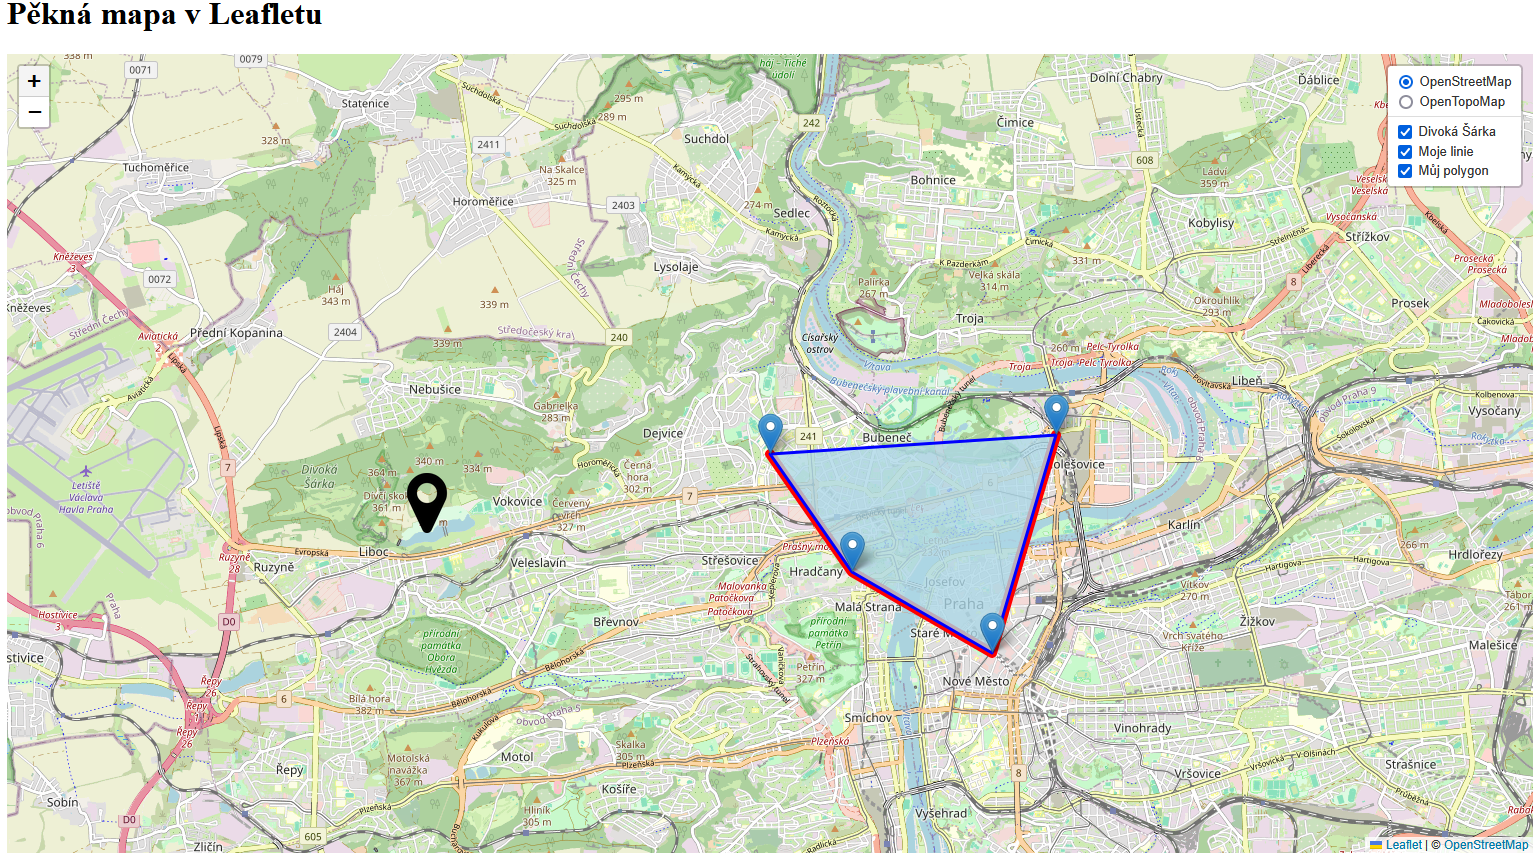
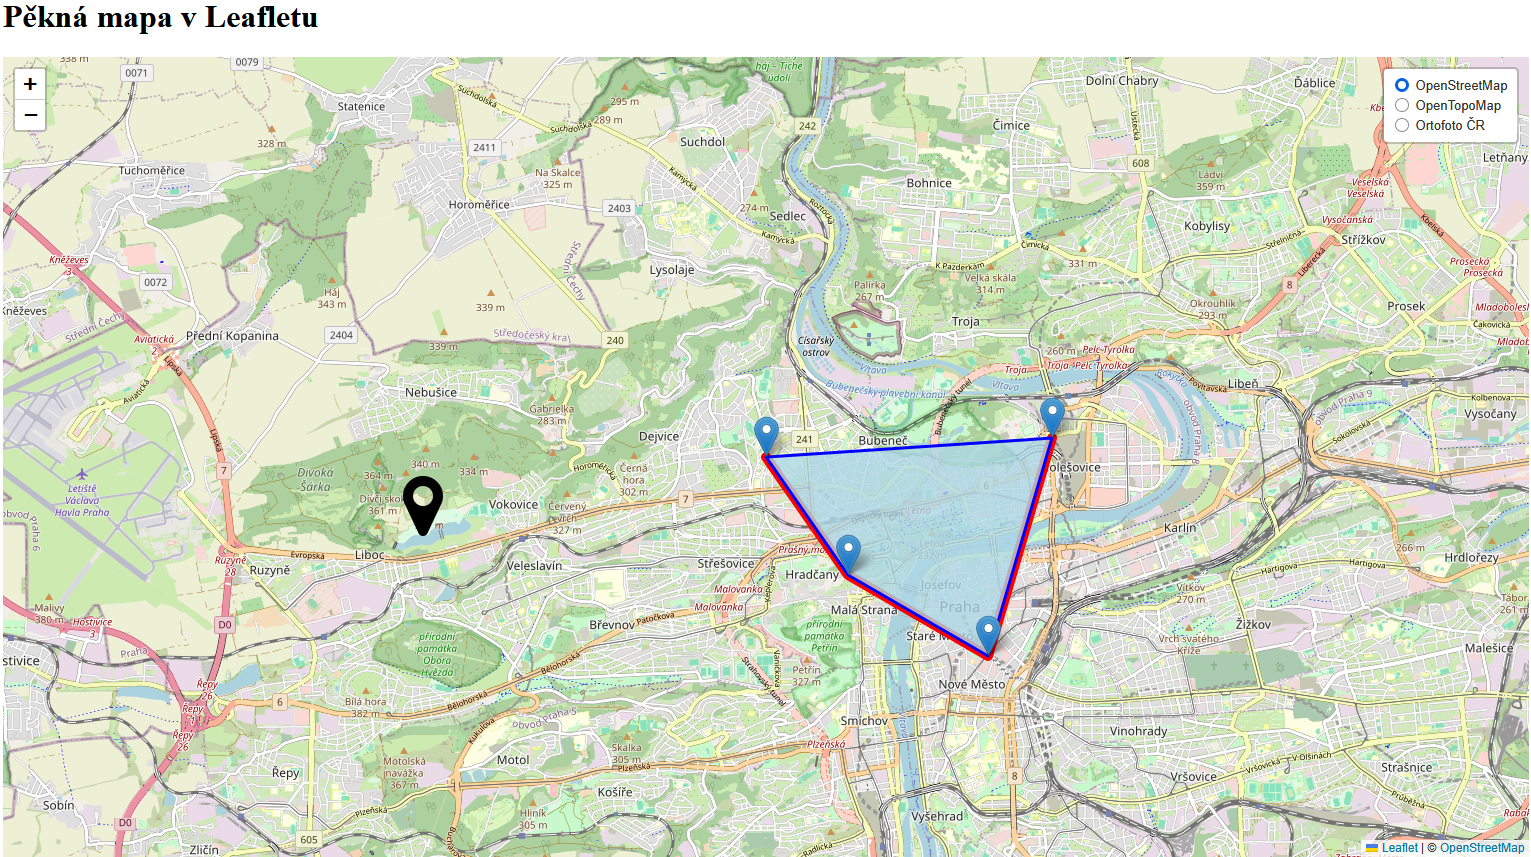
cv3 pridani wms

diff --git a/docs/cviceni/cviceni3.md b/docs/cviceni/cviceni3.md
@@ -620,6 +620,32 @@ Následně je potřeba upravit definici původní OpenStreetMap na začátku skr
     }).addTo(map);
     ```
 
+Jako třetí podkladovou vrstvu přidáme [Ortofoto ČR z ČÚZK](https://geoportal.cuzk.cz/(S(qc0rzifrjshkbyytskpzdilh))/Default.aspx?menu=3121&mode=TextMeta&side=wms.verejne&metadataID=CZ-CUZK-WMS-ORTOFOTO-P&metadataXSL=metadata.sluzba). Tato vrsta je dostupná jako [WMS](https://leafletjs.com/examples/wms/wms.html) služba, tudíž ji musíme přidat s trochu jinými parametry než předchozí OpenTopoMap.
+
+=== "script.js"
+
+    ``` js
+    // Přidání ortofota jako WMS služby, určení vrstvy, formátu a průhlednosti
+    var ortofoto = L.tileLayer.wms("https://ags.cuzk.gov.cz/arcgis1/services/ORTOFOTO/MapServer/WMSServer", {
+        layers: "0", 
+        format: "image/png",
+        transparent: true,
+        attribution: "&copy ČÚZK"
+    }).addTo(map);
+    ```
+
+Parametry vrstvy ```layers```, ```format``` a ```transparent``` nalezneme ve vlastnostech služby [```GetCapabilities```](https://ags.cuzk.gov.cz/arcgis1/services/ORTOFOTO/MapServer/WMSServer?service=WMS&request=getCapabilities). 
+
+<figure markdown>
+![](../assets/cviceni3/wms-get-c.png){ width="1200" }
+    <figcaption>Získání potřebných parametrů z GetCapabilities</figcaption>
+</figure>
+
+<figure markdown>
+![](../assets/cviceni3/leaflet9.png){ width="800" }
+    <figcaption>Přidání ortofota</figcaption>
+</figure>
+
 Nyní na konec skriptu vložíme [přepínání](https://leafletjs.com/reference.html#control-layers) podkladových vrstev. 
 
 === "script.js"
@@ -628,7 +654,8 @@ Nyní na konec skriptu vložíme [přepínání](https://leafletjs.com/reference
     // Proměnná uchovávající podkladové mapy, mezi kterými chceme přepínat
     var baseMaps = {
         "OpenStreetMap": osm, // "popis mapy": nazevPromenne
-        "OpenTopoMap": otm
+        "OpenTopoMap": otm,
+        "Ortofoto ČR": ortofoto
     };
 
     // Grafické přepínání podkladových map
@@ -649,7 +676,7 @@ Při načtení stránky se v podkladu zobrazí OpenTopoMap, která byla v kódu 
     ```
 
 <figure markdown>
-![](../assets/cviceni3/leaflet9.png){ width="800" }
+![](../assets/cviceni3/leaflet10.png){ width="800" }
     <figcaption>Přepínání podkladových map</figcaption>
 </figure>
 
@@ -672,7 +699,7 @@ Následně musíme přepsat druhý parametr v přepínání vrstev z ```null``` 
     ```
 
 <figure markdown>
-![](../assets/cviceni3/leaflet10.png){ width="800" }
+![](../assets/cviceni3/leaflet11.png){ width="800" }
     <figcaption>Přepínání podkladových map a mapových vrstev</figcaption>
 </figure>
 
@@ -710,7 +737,7 @@ Posledním krokem je pak přidání skupiny bodů ```markersLayer``` do výběru
     ```
 
 <figure markdown>
-![](../assets/cviceni3/leaflet11.png){ width="800" }
+![](../assets/cviceni3/leaflet12.png){ width="800" }
     <figcaption>Finální verze mapové aplikace se všemi mapovými vrstvami</figcaption>
 </figure>
 
@@ -774,7 +801,15 @@ Posledním krokem je pak přidání skupiny bodů ```markersLayer``` do výběru
         });
 
         // Přiání OpenTopoMap do mapy
-        otm.addTo(map);
+        //otm.addTo(map);
+
+        // Přidání ortofota jako WMS služby, určení vrstvy, formátu a průhlednosti
+        var ortofoto = L.tileLayer.wms("https://ags.cuzk.gov.cz/arcgis1/services/ORTOFOTO/MapServer/WMSServer", {
+            layers: "0", 
+            format: "image/png",
+            transparent: true,
+            attribution: "&copy ČÚZK"
+        });
 
         // Body s textovými informacemi
         var points = [
@@ -802,7 +837,7 @@ Posledním krokem je pak přidání skupiny bodů ```markersLayer``` do výběru
         });
 
         // Vložení skupiny bodů do mapy
-        //markersLayer.addTo(map);
+        markersLayer.addTo(map);
 
         // Nastavení parametrů vlastního markeru
         var blackMarker = L.icon({
@@ -816,11 +851,11 @@ Posledním krokem je pak přidání skupiny bodů ```markersLayer``` do výběru
         var markerDivokaS = L.marker([50.093, 14.324], {icon: blackMarker}).addTo(map); 
         markerDivokaS.bindPopup("Zde je <b style='color: red;'>Divoká Šárka</b>");
 
-
         // Proměnná uchovávající podkladové mapy, mezi kterými chceme přepínat
         var baseMaps = {
             "OpenStreetMap": osm, // "popis mapy": nazevPromenne
-            "OpenTopoMap": otm
+            "OpenTopoMap": otm,
+            "Ortofoto ČR": ortofoto
         };
 
         // Proměnná uchovávající mapové vrstvy, které chceme zobrazovat a skrývat
